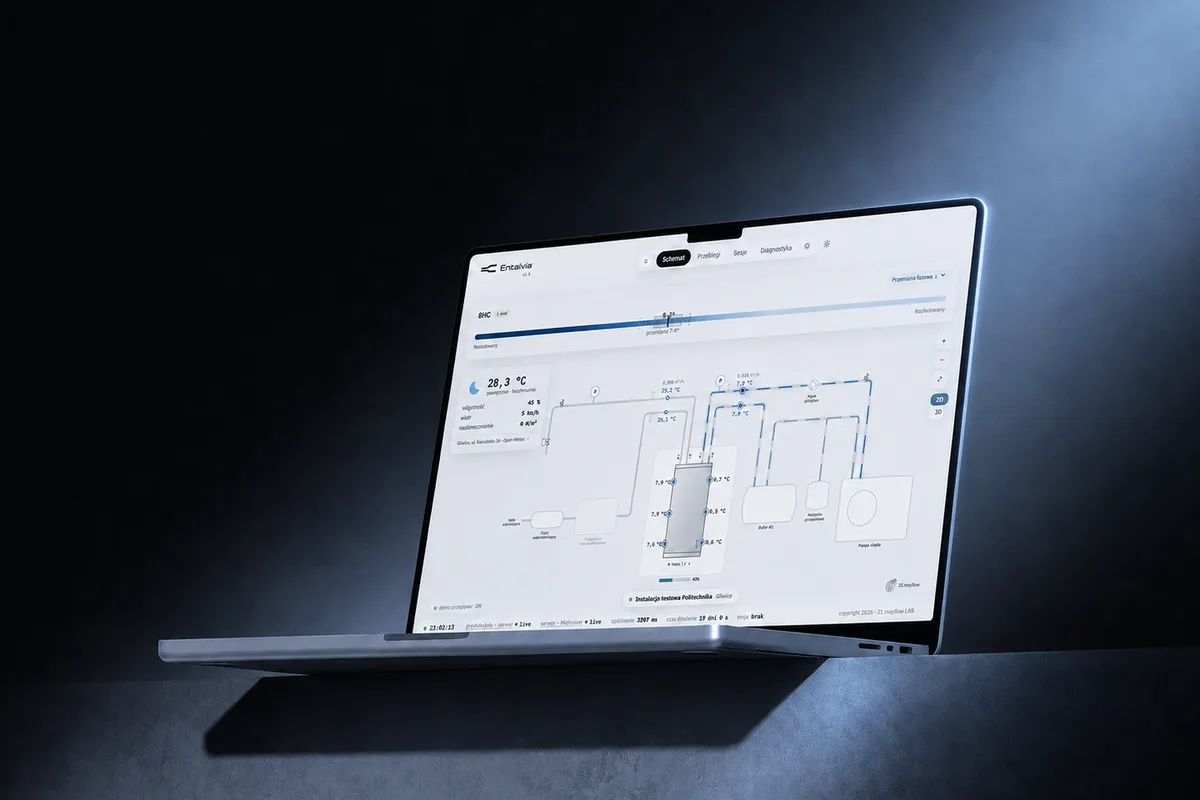
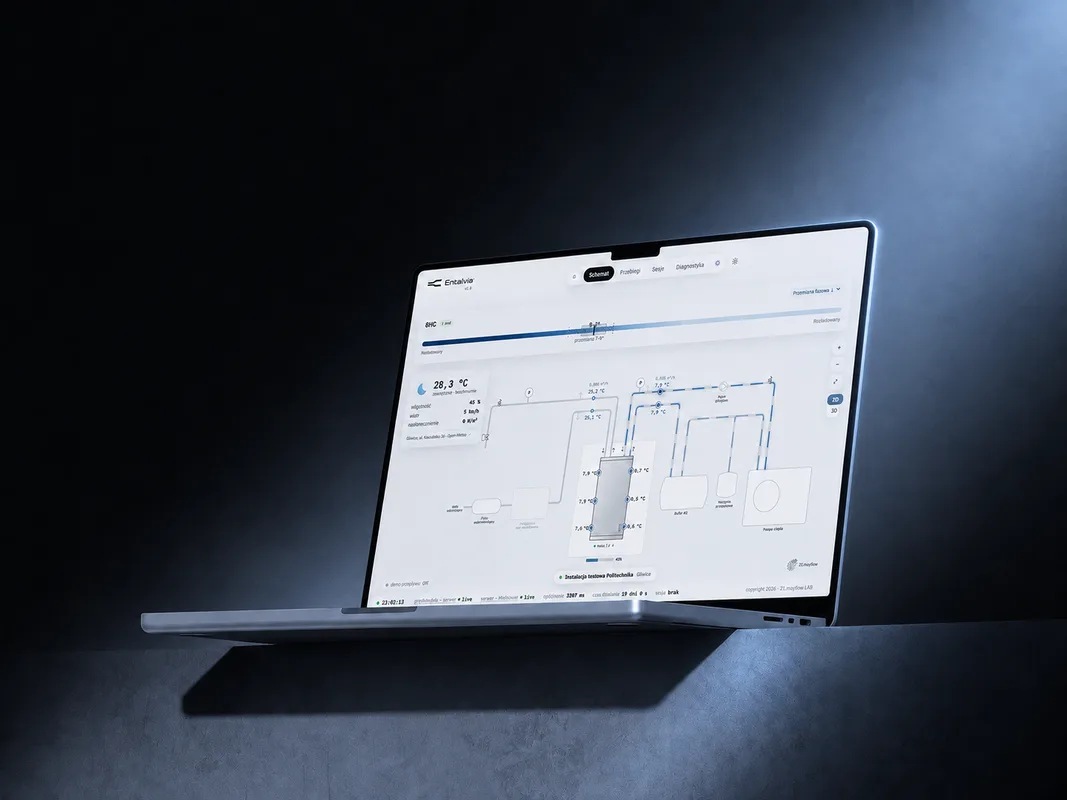
Pelne kadry w rownych ramkach, symulator w jezyku wizualnym monitoringu
ZDJECIA NIE SA JUZ PRZYCINANE. Rendery wyeksportowane bez kadrowania
(fit: inside), a ramka trzyma stala proporcje 3:2 i wpisuje w nia obraz
przez `contain` — oba kafle sa rowne, zaden kadr nie ginie.

Ramka musiala przejsc na pozycjonowanie bezwzgledne: przy `display: grid`
wiersz dobieral wysokosc do zawartosci, a `height: 100%` na obrazie
odwolywalo sie z powrotem do tego wiersza. Zaleznosc kolowa, ktora
przegladarka rozstrzygala na korzysc tresci — ramka laptopa wychodzila
528x396 zamiast 528x352 i kafle znow byly nierowne.

Logotyp w symulatorze odwracany w motywie ciemnym (byl ciemny na ciemnym).
Plik istnieje tylko w wersji na jasne tlo, a znak jest jednobarwny, wiec
inwersja daje czysta biel bez przebarwien i bez drugiego zasobu.

Symulator przepisany na tokeny aplikacji: karty bez obwodki o promieniu
28 px z cieniem zamiast kreski, pola 10 px na wpuszczonym tle, kafle
wynikow 18 px, oddech miedzy modulami 16 -> 28 px. Oba narzedzia czytaja
sie teraz jako jeden system.

diff --git a/web/public/symulator.html b/web/public/symulator.html
@@ -212,16 +212,75 @@
     display: inline-flex; align-items: center; justify-content: center;
     width: 34px; height: 34px; border-radius: 999px; cursor: pointer;
     background: transparent; color: var(--text-secondary);
-    box-shadow: inset 0 0 0 1px var(--border);
+    box-shadow: inset 0 0 0 1px currentColor;
     font-size: 15px; line-height: 1; padding: 0;
   }
   .ent-motyw:hover { color: var(--text-primary); }
+
+  /* LOGOTYP JEST CIEMNY — w motywie ciemnym trzeba go odwrócić.
+     Plik entalvia.png istnieje tylko w wersji na jasne tło, więc zamiast
+     dokładać drugi zasób odwracamy jasność: znak jest jednobarwny, więc
+     inwersja daje czystą biel bez przebarwień. */
+  :root[data-theme="dark"] .ent-logo { filter: invert(1) brightness(1.6); }
+
+  /* --- ZGRANIE Z MONITORINGIEM ------------------------------------------
+     Symulator miał własne, obce proporcje: karty z obwódką i promieniem
+     10 px, ciasne pola, moduły stłoczone co 16 px. Aplikacja operuje
+     miękkimi kartami bez obwódki (promień 28 px, cień zamiast kreski),
+     polami o promieniu 10 px na wpuszczonym tle i wyraźnym oddechem
+     między sekcjami. Poniżej te same wartości, żeby oba narzędzia
+     czytały się jako jeden system. */
+
+  .viz-root { --ent-wpuszczone: rgba(0,0,0,0.035); --ent-cien: 0 1px 2px rgba(16,16,14,.05), 0 8px 24px rgba(16,16,14,.06); }
+  :root[data-theme="dark"] .viz-root { --ent-wpuszczone: rgba(255,255,255,0.04); --ent-cien: 0 1px 2px rgba(0,0,0,.35), 0 10px 28px rgba(0,0,0,.30); }
+
+  .viz-root .wrap { max-width: 1140px; padding: 28px clamp(16px, 4vw, 32px) 72px; }
+
+  .viz-root .card {
+    border: 0;
+    border-radius: 28px;
+    box-shadow: var(--ent-cien);
+    padding: clamp(1.1rem, 3vw, 1.75rem);
+    margin-bottom: 28px;          /* oddech między modułami — było 16 */
+  }
+
+  .viz-root h1 { font-size: 26px; font-weight: 500; letter-spacing: -0.01em; }
+  .viz-root h2 { font-size: 17px; font-weight: 500; margin: 0 0 16px; }
+  .viz-root .sub { margin-bottom: 28px; line-height: 1.6; }
+
+  .viz-root label { font-size: 12.5px; margin-bottom: 5px; }
+
+  .viz-root input, .viz-root select {
+    padding: 9px 11px;
+    border-radius: 10px;
+    border: 1px solid var(--border);
+    background: var(--ent-wpuszczone);
+  }
+  .viz-root input:focus, .viz-root select:focus {
+    outline: 2px solid var(--series-2);
+    outline-offset: 1px;
+  }
+
+  /* Kafle wyniku — jak metryki w monitoringu: bez obwódki, wpuszczone tło. */
+  .viz-root .tile {
+    border: 0;
+    border-radius: 18px;
+    background: var(--ent-wpuszczone);
+    padding: 14px 16px;
+  }
+  .viz-root .tile .v { font-weight: 500; }
+  .viz-root .tiles { gap: 12px; }
+
+  .viz-root .grid { gap: 14px; }
+  .viz-root .warn, .viz-root .note, .viz-root .hint { border-radius: 12px; }
+  .viz-root .chartbox { border-radius: 18px; }
+  .viz-root table.res input { border-radius: 8px; }
 </style>
 </head>
 <body class="viz-root">
 <header class="ent-belka">
   <div class="ent-belka__lewa">
-    <a href="/" style="display:inline-flex;align-items:center"><img src="/entalvia.png" alt="Entalvia" style="height:22px;display:block"></a>
+    <a href="/" style="display:inline-flex;align-items:center"><img class="ent-logo" src="/entalvia.png" alt="Entalvia" style="height:22px;display:block"></a>
     <span style="font-size:13px;color:var(--text-secondary)">Symulator doboru</span>
   </div>
   <div class="ent-belka__lewa">

diff --git a/web/src/styles.css b/web/src/styles.css
@@ -1275,16 +1275,30 @@ code {
   margin-top: 0.9rem;
 }
 
+/* RÓWNE RAMKI, PEŁNE KADRY.
+   Rendery mają różne proporcje (moduł 16:9, laptop 4:3), a przycinanie ich
+   do wspólnej ramki obcinało brzegi — to zdjęcia produktowe, na których ma
+   być widać cały przedmiot. Ramka trzyma więc stałą proporcję 3:2, a obraz
+   wpisuje się w nią przez `contain`: oba kafle są równe, żaden kadr nie
+   ginie, a nadmiar wypełnia tło strony. */
+/* RAMKA MUSI BYĆ POZYCJONOWANA, NIE SIATKOWA.
+   Przy `display: grid` wiersz dobiera wysokość do zawartości, a `height: 100%`
+   na obrazie odwołuje się z powrotem do tego wiersza — zależność kołowa, którą
+   przeglądarka rozstrzyga na korzyść treści. Skutkiem ramka laptopa wychodziła
+   528×396 zamiast 528×352 i kafle znów były nierówne. Bezwzględne umieszczenie
+   obrazów w ramce o zadanej proporcji zrywa to sprzężenie. */
 .wiz {
-  display: grid;
+  position: relative;
+  aspect-ratio: 3 / 2;
   border-radius: 18px;
-  overflow: hidden;
 }
 
 .wiz__obraz {
-  grid-area: 1 / 1;
+  position: absolute;
+  inset: 0;
   width: 100%;
-  height: auto;
+  height: 100%;
+  object-fit: contain;
   display: block;
   /* Zaokrąglenie NA SAMYM OBRAZIE, nie tylko na obudowie: przy przejściu
      kryciem widać obie warstwy naraz i przycięcie rodzica gubi róg tej
